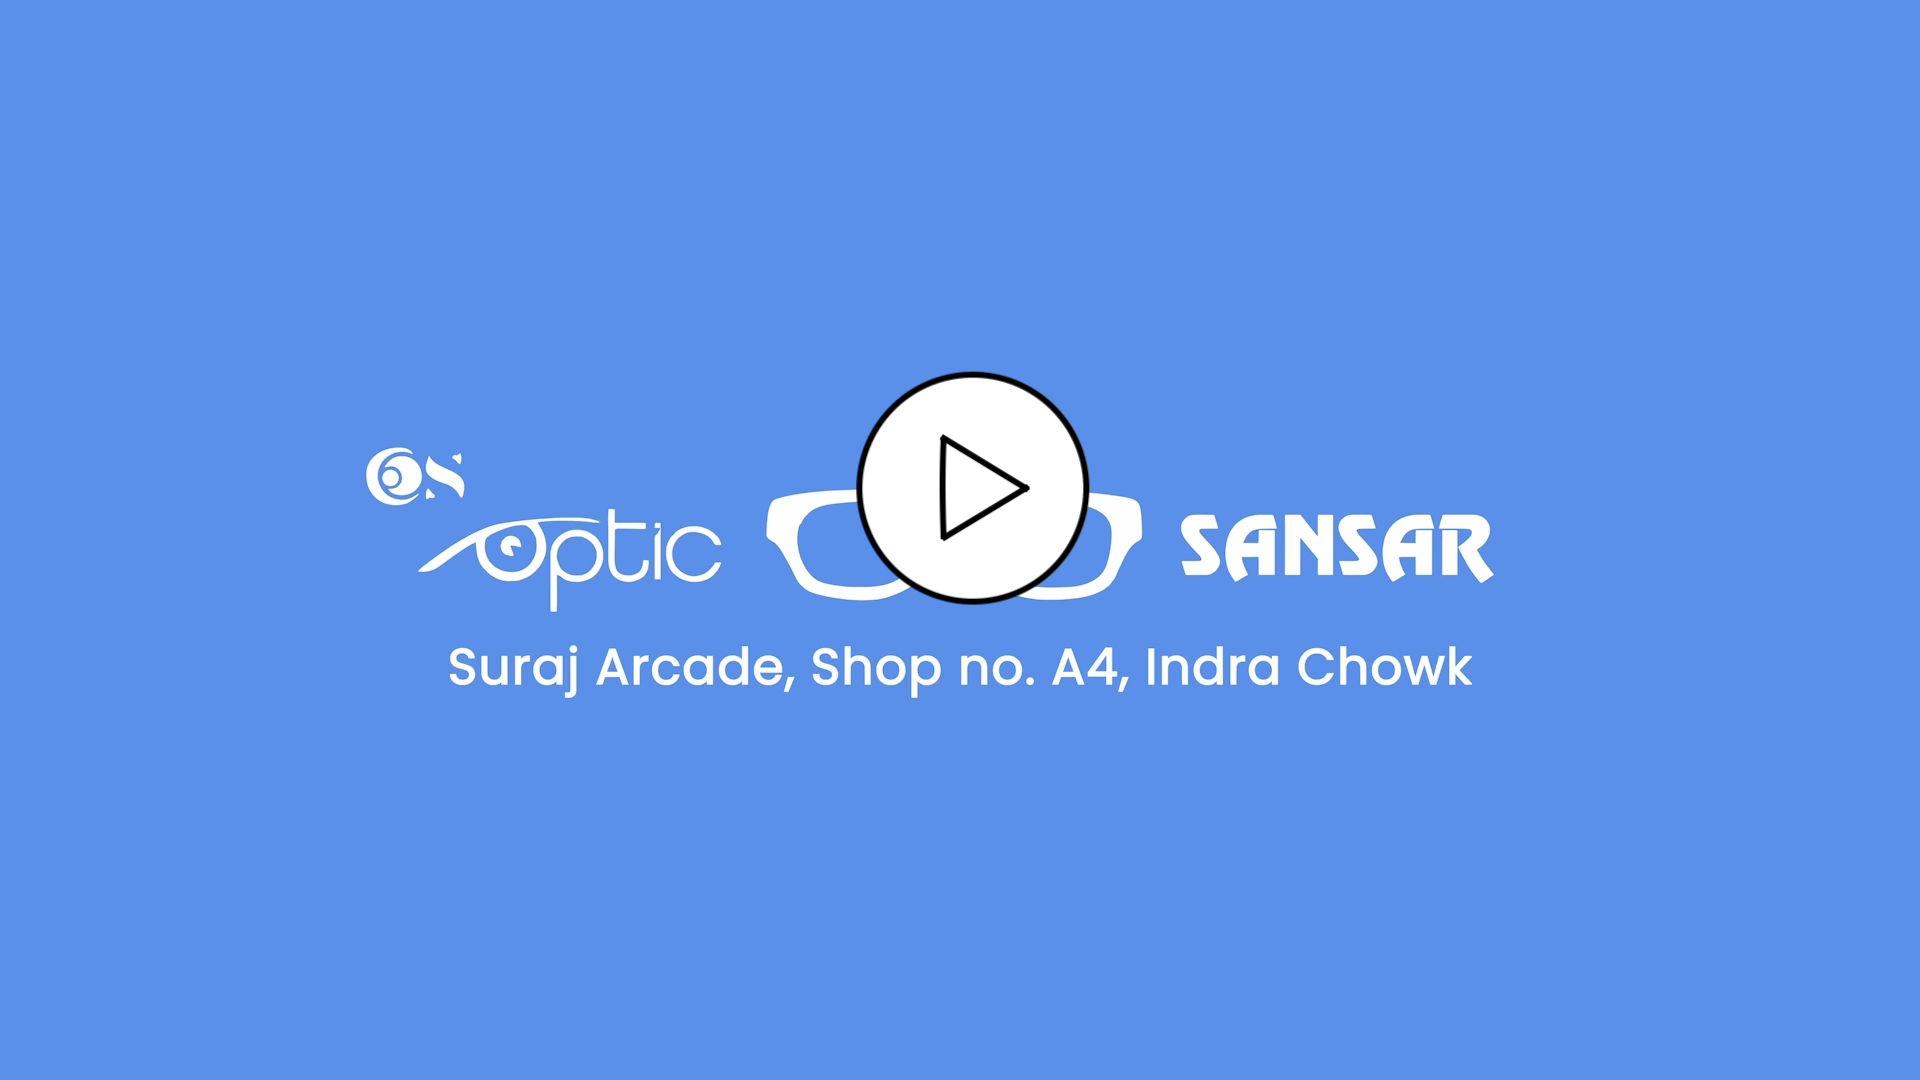
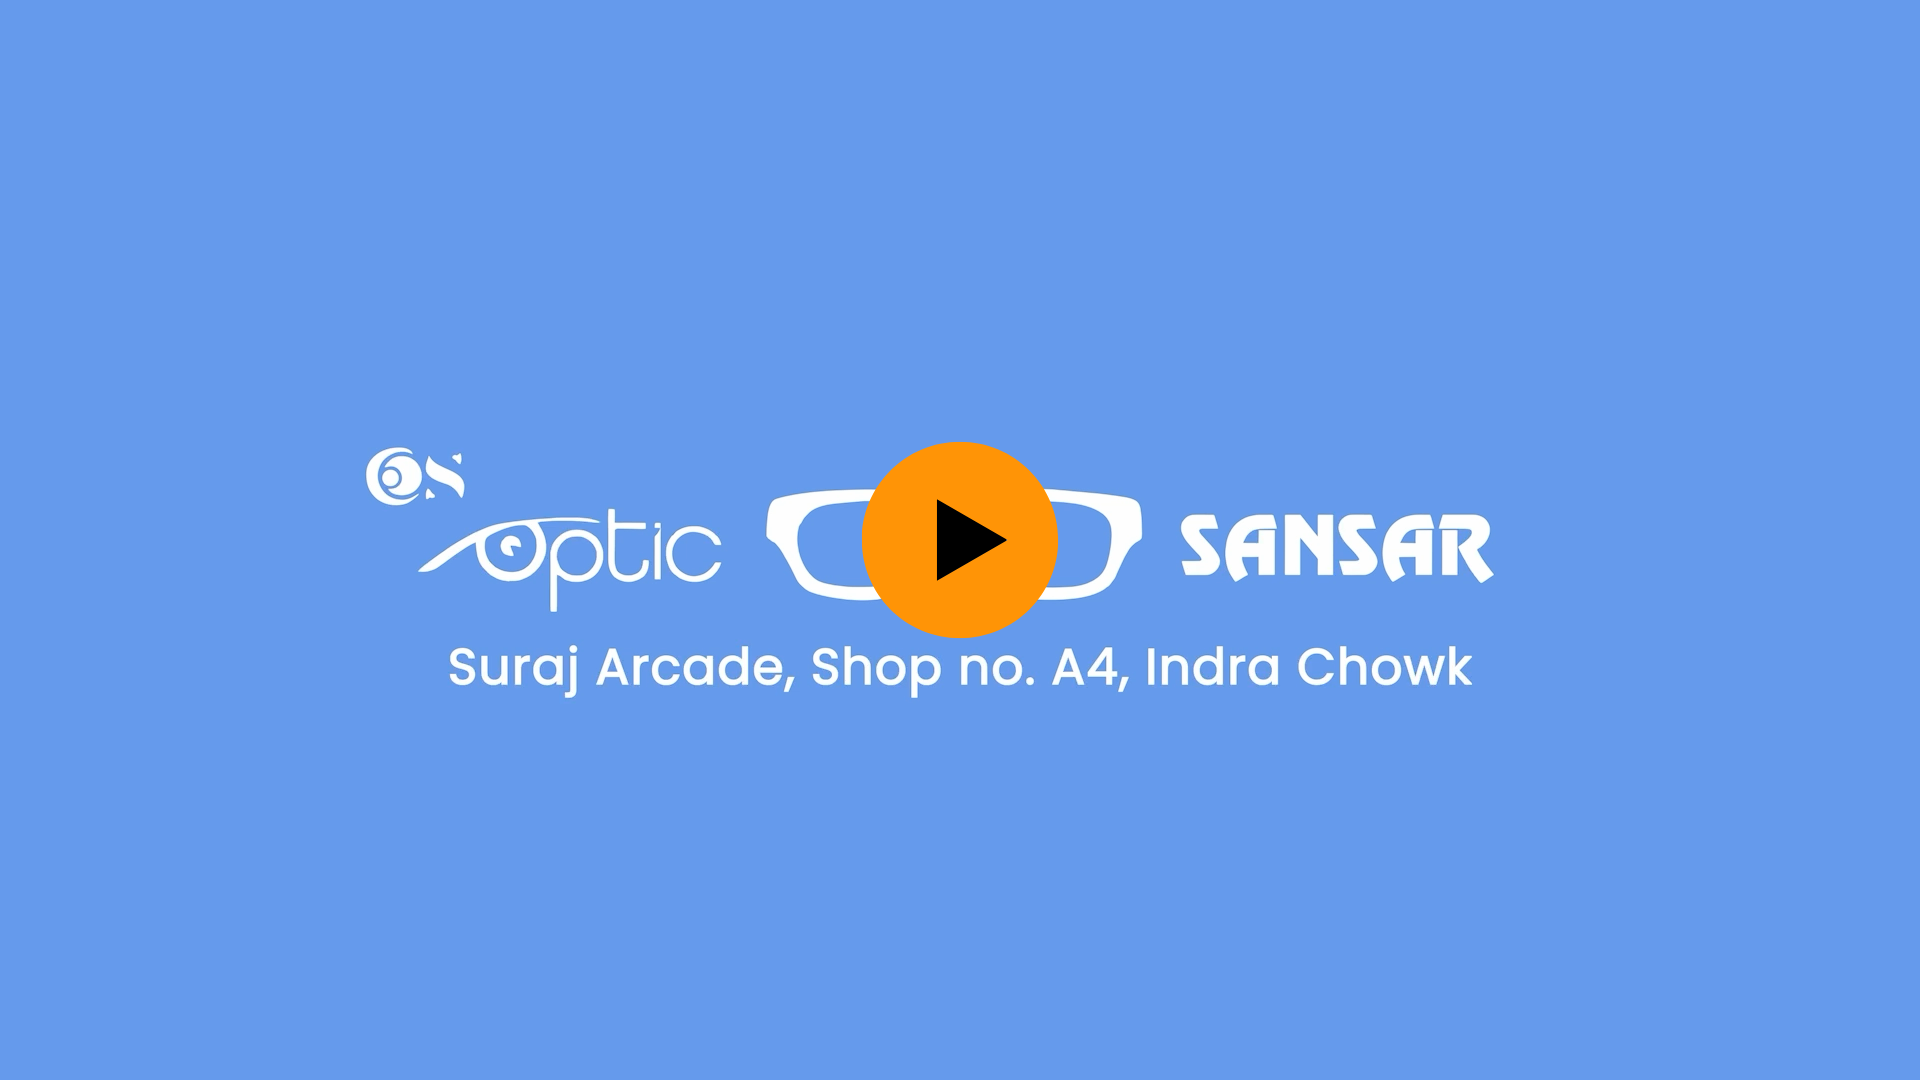
added machan video & updated video thumbnails

Changed region(s): [[0.4375, 0.3361, 0.5938, 0.6111]]

diff --git a/project-machan.html b/project-machan.html
@@ -284,6 +284,16 @@
                                 </div>
                             </div>
                             <div class="row mil-p-0-90">
+
+                                <div class="">
+
+                                    <div class="mil-horizontal mil-up mil-mb-30">
+                                        <video src="./img/photo/portfolio/machan/machan.mp4" width="100%" height="auto" controls poster="./img/photo/portfolio/machan/machan_thumbnail.png"></video>
+                                        <blockquote style="padding: 10px;">*Wildlife clips (0:32-0:41) by <a data-no-swup href="https://instagram.com/nikita_shresha/" target="_blank"><b>Nikita Shrestha.</b></a></blockquote>
+                                    </div>
+
+                                </div>
+
                                 <div class="col-lg-6">
 
                                     <div class="mil-image-frame mil-vertical mil-up mil-mb-30">

diff --git a/project-set_gb.html b/project-set_gb.html
@@ -286,7 +286,7 @@
                                 <div class="col-lg-6">
 
                                     <div class="mil-image-frame mil-vertical mil-up mil-mb-30">
-                                        <video src="./img/photo/portfolio/gadgetbyte_set_design/5.MP4" controls style="position: absolute; width: 100%;" poster="./img/photo/portfolio/gadgetbyte_set_design/5_thumbnail.jpg"></video>
+                                        <video src="./img/photo/portfolio/gadgetbyte_set_design/5.MP4" controls style="position: absolute; width: 100%;" poster="./img/photo/portfolio/gadgetbyte_set_design/5_thumbnail.png"></video>
                                     </div>
 
                                 </div>

diff --git a/index.html b/index.html
@@ -581,7 +581,7 @@
 
                                             <h6 class="mil-muted mil-up mil-mb-30">Contact</h6>
 
-                                            <p class="mil-light-soft mil-up">contact@subedisubigya.com.np<br><span class="mil-no-wrap">+977 9863020700</span></p>
+                                            <p class="mil-light-soft mil-up"><a data-no-swup href="mailto:contact@subedisubigya.com.np" target=”_blank” rel=noopener noreferrer>contact@subedisubigya.com.np</a><br><span class="mil-no-wrap">+977 9863020700</span></p>
 
                                         </div>
                                         <div class="col-md-6 col-lg-5 mil-mb-60">
